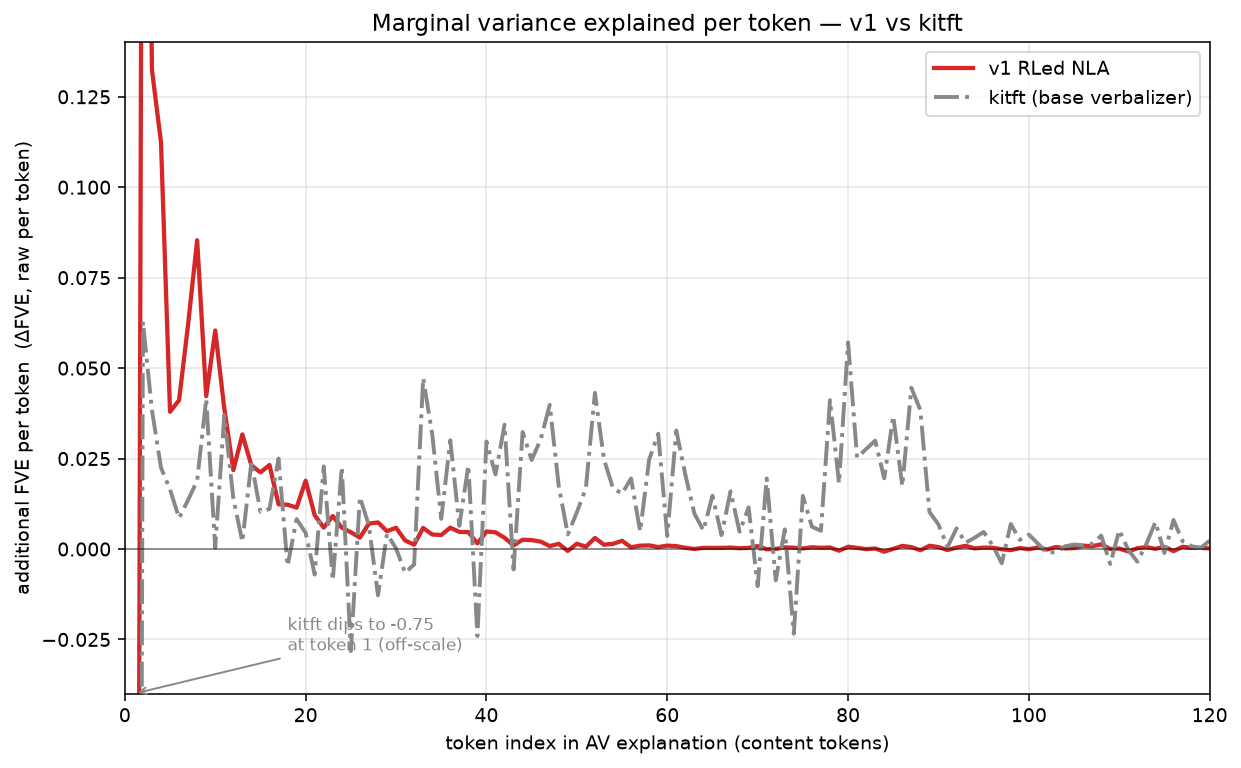
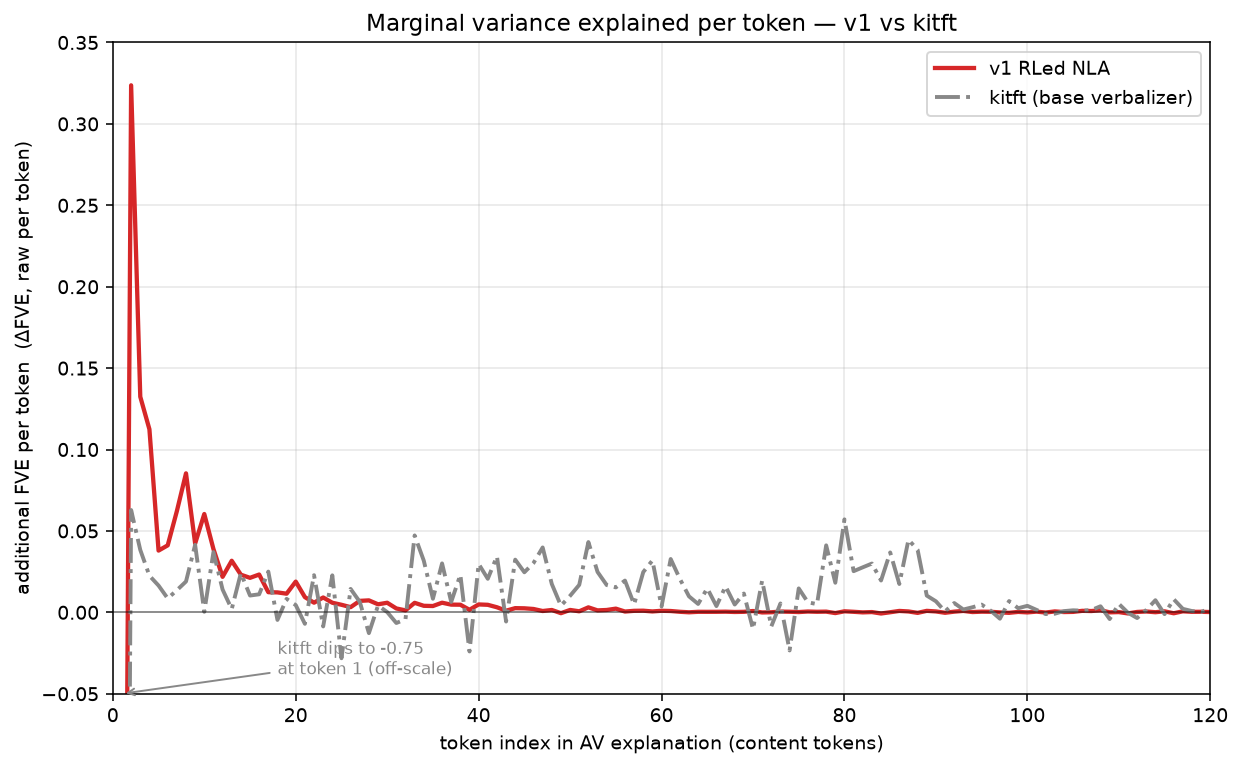
🎨 Raise y-max so the full raw v1 spike (~0.32 @user) is visible
Claude-Session: https://claude.ai/code/session_013QpD8gUKVwdg5FeGc2gDm2

diff --git a/experiments/qwen2.5-matryoshka-warmstart-sonnet46/fve_truncation_sweep/plot_marginal_pertoken_v1_v2_kitft.py b/experiments/qwen2.5-matryoshka-warmstart-sonnet46/fve_truncation_sweep/plot_marginal_pertoken_v1_v2_kitft.py
@@ -18,7 +18,7 @@ SRCS = [
     ("", "v1 RLed NLA", "#d62728", "-", 2.2),
     ("_kitft", "kitft (base verbalizer)", "#888888", "-.", 2.0),
 ]
-YMIN, YMAX = -0.04, 0.14   # clip so the main curves fill the panel
+YMIN, YMAX = -0.05, 0.35   # fit the full raw v1 spike (~0.32); token-1 dips annotated off-scale
 
 
 def load(suf, cap):